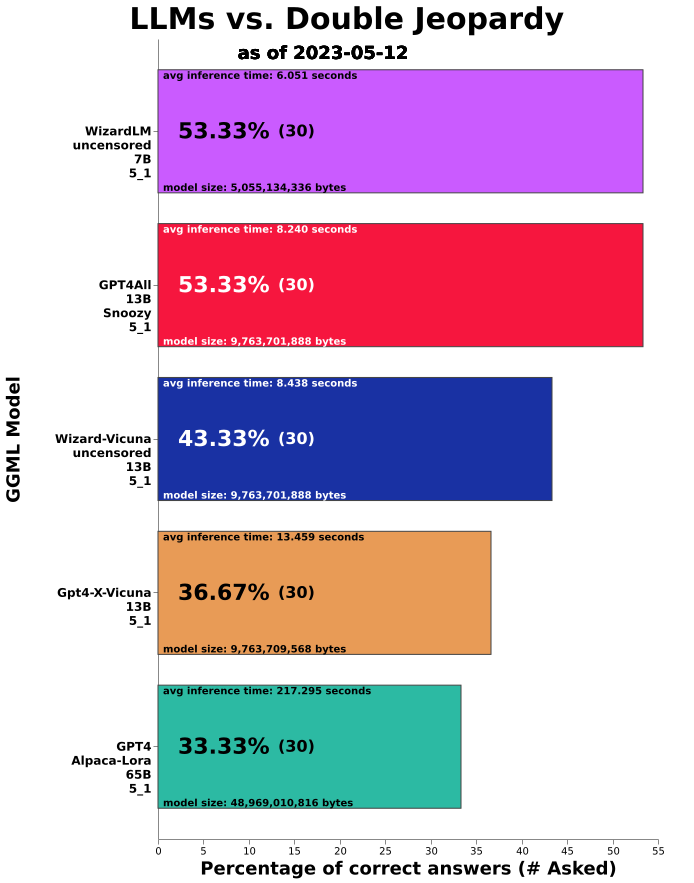
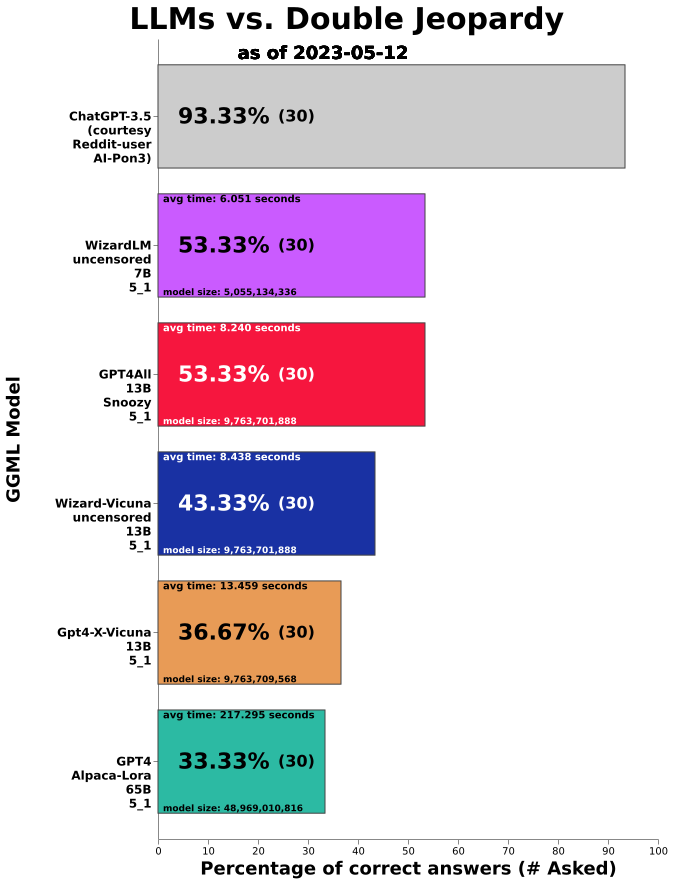
Update data

diff --git a/README.md b/README.md
@@ -2,6 +2,13 @@
 
 ![Double](dbljeopardy.png)
 
+Install and run:
+git clone https://github.com/aigoopy/llm-jeopardy.git
+npm install
+node . --help
+
+Thanks to Reddit user: [AI-Pon3](https://www.reddit.com/user/AI-Pon3) for ChatGPT data and scoring. 
+
 ![Current Models](current.png)
 
 process.sh - Script to process jeopardy question prompt list
